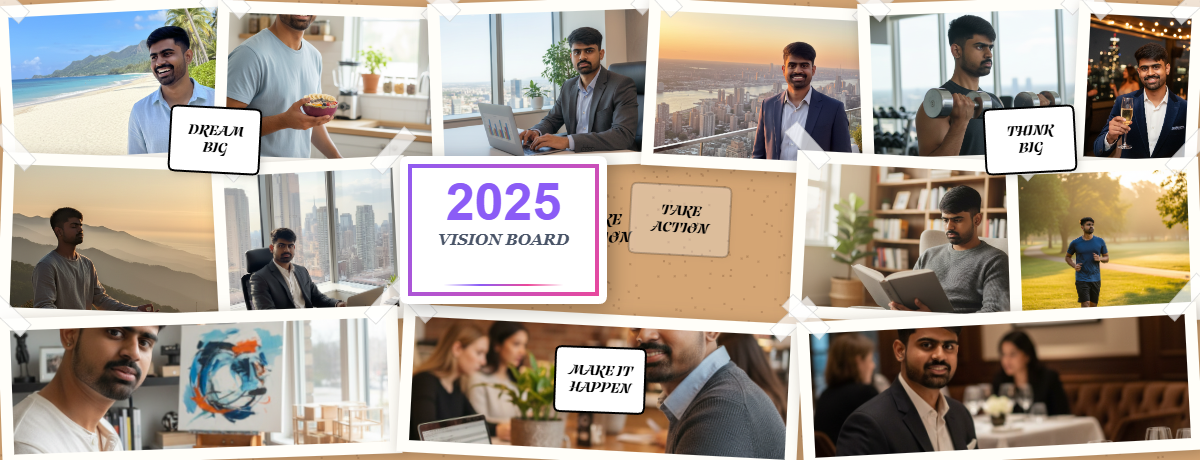
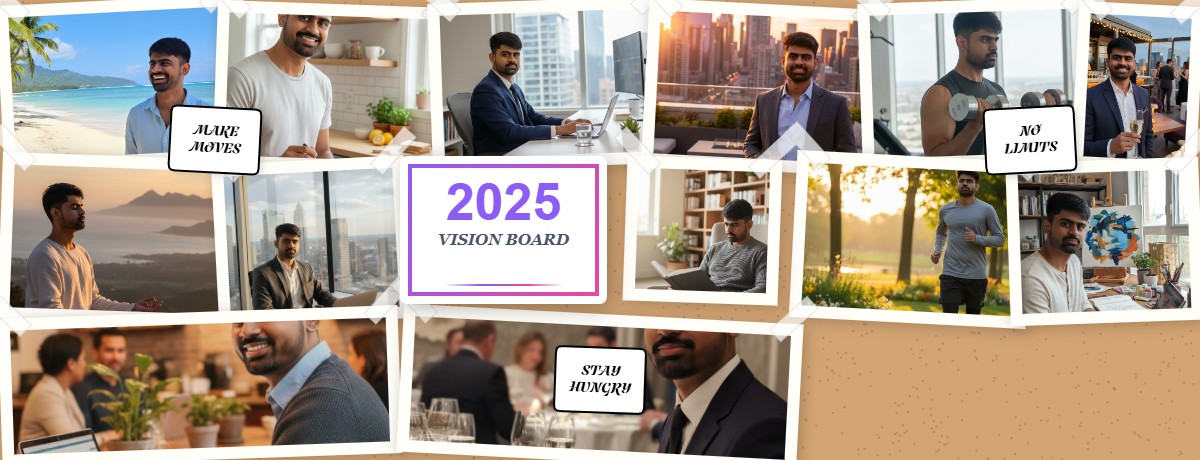
magazine changes

diff --git a/src/components/templates/MagazineCollageTemplate.tsx b/src/components/templates/MagazineCollageTemplate.tsx
@@ -67,8 +67,8 @@ export default function MagazineCollageTemplate({
     { top: 156, left: 0, width: 237, height: 167, rotate: 2, zIndex: 26 },
     { top: 160, left: 215, width: 193, height: 163, rotate: -3, zIndex: 27 },
     // CENTER CARD SPACE (400x156, 207x148)
-    // NEW IMAGE - Right of center card (replaces transparent quote)
-    { top: 158, left: 625, width: 155, height: 145, rotate: 2, zIndex: 35 },
+    // NEW IMAGE - Right of center card (replaces transparent quote) - Lower zIndex so card shows on top
+    { top: 165, left: 620, width: 160, height: 138, rotate: 3, zIndex: 27 },
     { top: 156, left: 793, width: 237, height: 167, rotate: 3, zIndex: 28 },
     { top: 160, left: 1008, width: 193, height: 163, rotate: -2, zIndex: 29 },
 
@@ -204,9 +204,9 @@ export default function MagazineCollageTemplate({
 
       // Add inspirational quotes in containers - positioned between images (reduced to 3)
       const quotePositions = [
-        { x: 215, y: 140, size: 14, rotation: 3, width: 90, height: 65, radius: 6 }, // Between top-left and middle-left
-        { x: 1030, y: 140, size: 14, rotation: -3, width: 90, height: 65, radius: 6 }, // Between top-right and middle-right
-        { x: 600, y: 380, size: 14, rotation: 2, width: 90, height: 65, radius: 6 }, // Between middle and bottom center
+        { x: 120, y: 240, size: 14, rotation: 3, width: 90, height: 65, radius: 6 }, // Left edge between top and middle rows
+        { x: 1095, y: 240, size: 14, rotation: -3, width: 90, height: 65, radius: 6 }, // Right edge between top and middle rows
+        { x: 320, y: 345, size: 13, rotation: 2, width: 85, height: 60, radius: 6 }, // Left side between middle and bottom rows
       ];
 
       const inspirationalQuotes = quotePositions.map((pos, index) => ({
@@ -426,12 +426,15 @@ export default function MagazineCollageTemplate({
                 }}
               />
 
-              {/* Image */}
+              {/* Image - Cover mode to fill entire frame */}
               <img
                 src={image}
                 alt={`Vision ${idx + 1}`}
-                className="w-full h-full object-cover"
-                style={{ objectFit: 'cover' }}
+                className="w-full h-full"
+                style={{
+                  objectFit: 'cover',
+                  objectPosition: 'center'
+                }}
               />
             </div>
           );
@@ -439,12 +442,12 @@ export default function MagazineCollageTemplate({
 
         {/* Inspirational Quotes in Containers - Positioned between images (3 quotes) */}
 
-        {/* Quote 1 - Between top-left and middle-left */}
+        {/* Quote 1 - Left edge between top and middle rows */}
         <div
           style={{
             position: "absolute",
-            top: "107px",
-            left: "170px",
+            top: "207px",
+            left: "75px",
             width: "90px",
             height: "65px",
             transform: "rotate(3deg)",
@@ -474,12 +477,12 @@ export default function MagazineCollageTemplate({
           />
         </div>
 
-        {/* Quote 2 - Between top-right and middle-right */}
+        {/* Quote 2 - Right edge between top and middle rows */}
         <div
           style={{
             position: "absolute",
-            top: "107px",
-            left: "985px",
+            top: "207px",
+            left: "1050px",
             width: "90px",
             height: "65px",
             transform: "rotate(-3deg)",
@@ -509,14 +512,14 @@ export default function MagazineCollageTemplate({
           />
         </div>
 
-        {/* Quote 3 - Between middle and bottom center */}
+        {/* Quote 3 - Left side between middle and bottom rows */}
         <div
           style={{
             position: "absolute",
-            top: "347px",
-            left: "555px",
-            width: "90px",
-            height: "65px",
+            top: "312px",
+            left: "275px",
+            width: "85px",
+            height: "60px",
             transform: "rotate(2deg)",
             backgroundColor: "#ffffff",
             border: "2px solid #000000",
@@ -533,7 +536,7 @@ export default function MagazineCollageTemplate({
             style={{
               fontFamily: "Telma, Arial, sans-serif",
               fontWeight: "bold",
-              fontSize: "14px",
+              fontSize: "13px",
               color: "#000000",
               textAlign: "center",
               lineHeight: "1.2",

diff --git a/src/app/api/generate-with-openai/route.ts b/src/app/api/generate-with-openai/route.ts
@@ -47,12 +47,12 @@ export async function POST(request: NextRequest) {
 
     // ============================================
     // NEW STRATEGY: Generate ALL images with Gemini for personalization
-    // Grid template: 8 images, Magazine: 13 images, Polaroid: 15 images
+    // Grid template: 8 images, Magazine: 14 images, Polaroid: 15 images
     // All images will include user's face/items for a cohesive personal vision board
     // NO generic OpenAI images - everything is personalized
     // ============================================
     const geminiImages: string[] = [];
-    const numGeminiImages = selectedTemplate === "grid" ? 8 : selectedTemplate === "magazine" ? 13 : 15;
+    const numGeminiImages = selectedTemplate === "grid" ? 8 : selectedTemplate === "magazine" ? 14 : 15;
 
     if (selectedTemplate !== "ai") {
       console.log(`\n🎨 STEP 1/2: Generating ${numGeminiImages} personalized images with Gemini (ALL images)...`);
